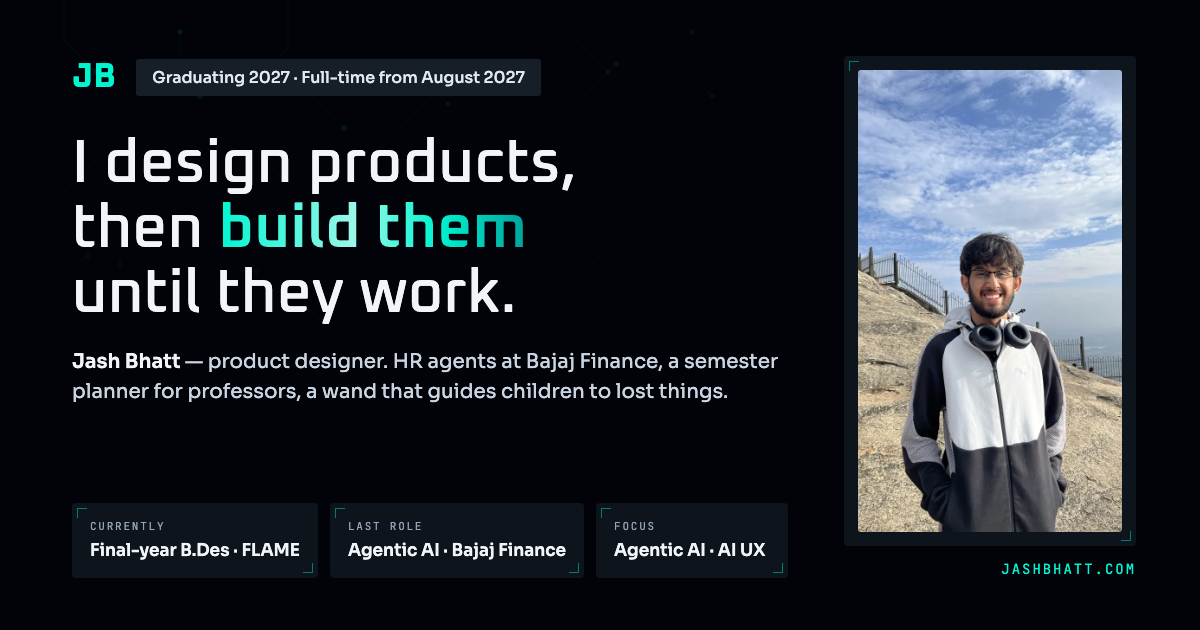
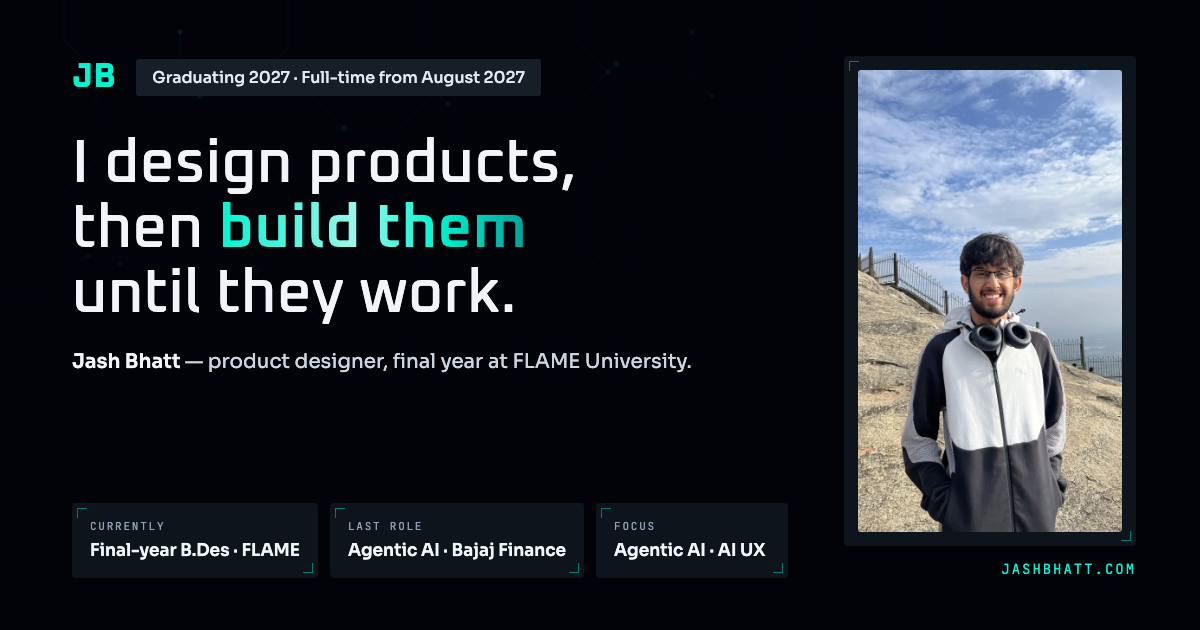
Cut the hero subline down to who and where

Changed region(s): [[0.0617, 0.5429, 0.6475, 0.6333]]

diff --git a/src/App.tsx b/src/App.tsx
@@ -1189,10 +1189,9 @@ const App = () => {
                     I design products, then <span className="accent-shimmer font-semibold">build them</span> until they work.
                   </h1>
                   {/* One title. The line under it used to cycle through five
-                      identities, from Product Designer to Circuit & Hardware;
-                      the projects named here make the case instead. */}
+                      identities, from Product Designer to Circuit & Hardware. */}
                   <p className="text-[1.05rem] md:text-[1.34rem] text-ink-body mb-5 lg:mb-8 leading-relaxed max-w-3xl animate-fade-in-up" style={{ animationDelay: '140ms' }}>
-                    I'm <span className="font-semibold text-ink">Jash Bhatt</span>, a product designer in my final year at FLAME&nbsp;University. HR agents at Bajaj Finance, a semester planner for professors, a wand that guides children to lost things: I designed each one, then built it.
+                    I'm <span className="font-semibold text-ink">Jash Bhatt</span>, a product designer in my final year at FLAME&nbsp;University.
                   </p>
 
                   <div className="hidden lg:flex flex-col sm:flex-row gap-4 mt-auto animate-fade-in-up" style={{ animationDelay: '380ms' }}>

diff --git a/scripts/og-card.html b/scripts/og-card.html
@@ -91,7 +91,7 @@
         <span class="chip">Graduating 2027 · Full-time from August 2027</span>
       </div>
       <h1>I design products,<br>then <span class="accent">build them</span><br>until they work.</h1>
-      <p class="sub"><b>Jash Bhatt</b> — product designer. HR agents at Bajaj Finance, a semester planner for professors, a wand that guides children to lost things.</p>
+      <p class="sub"><b>Jash Bhatt</b> — product designer, final year at FLAME University.</p>
       <div class="stats">
         <div class="surface marks stat"><div class="label">Currently</div><div class="value">Final-year B.Des · FLAME</div></div>
         <div class="surface marks stat"><div class="label">Last role</div><div class="value">Agentic AI · Bajaj Finance</div></div>
